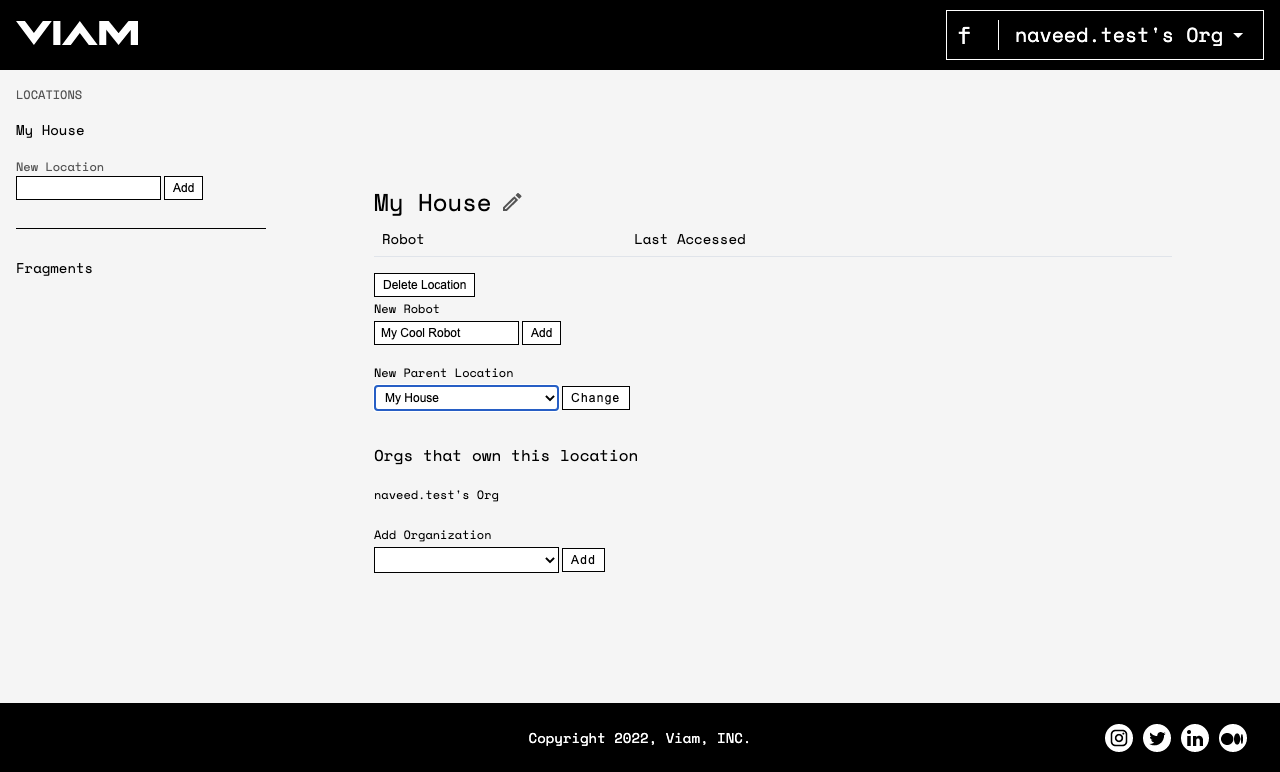
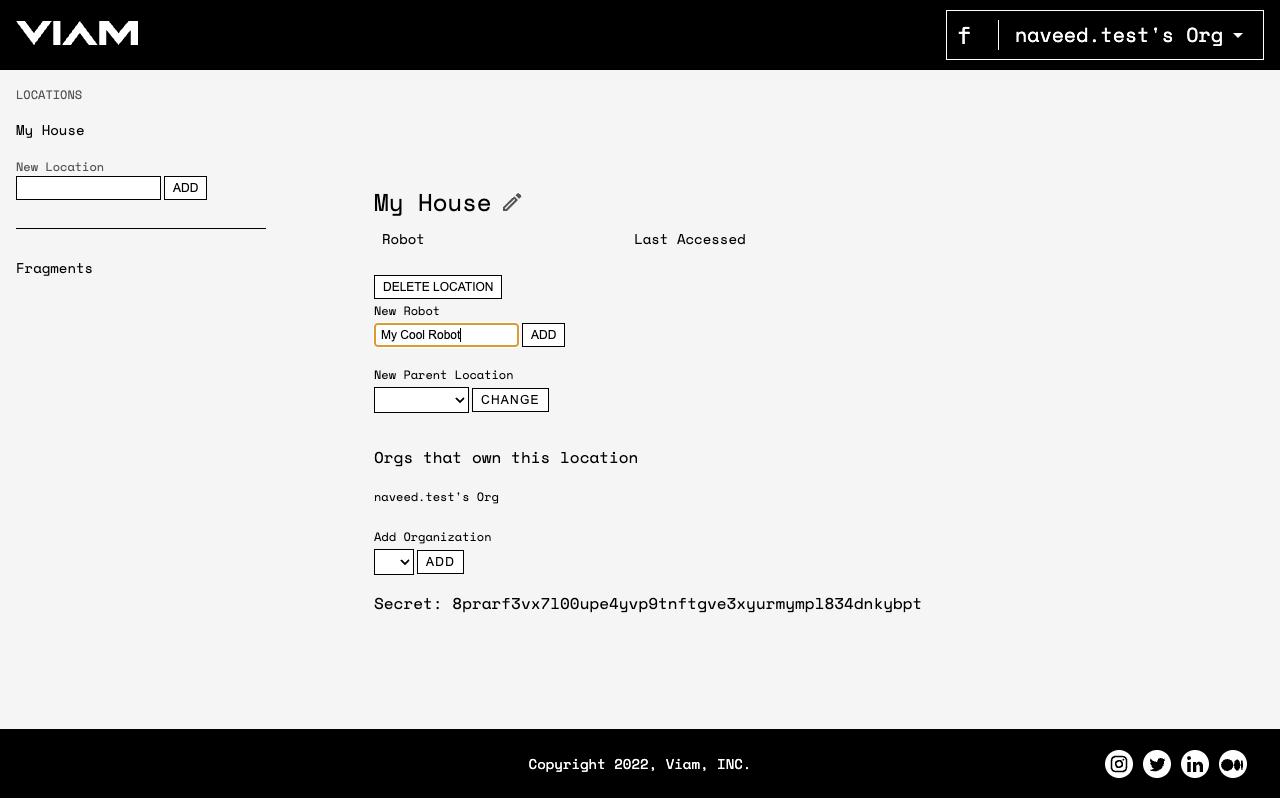
alexis and khari improvements. updated some screenshots

diff --git a/docs/tutorials/yahboom-rover.md b/docs/tutorials/yahboom-rover.md
@@ -82,8 +82,8 @@ Now let’s add the base:
     "board": "local",
     "frontLeft": "left",
     "frontRight": "right",
-    "wheelCircumferenceMillis": 160,
-    "widthMillis": 20
+    "wheelCircumferenceMm": 160,
+    "widthMm": 20
   },
   "depends_on": [
     "local",
@@ -92,21 +92,21 @@ Now let’s add the base:
   ]
 }
 ```
-The `base` component is used to describe the physical structure onto which components are mounted. The `four-wheel` model of the `base` component expects attributes to describe which components are each of its wheels. Since the yahboom rover only has two driving `motor` controllers (one for each side instead of one for each wheel), we list each `motor` twice (once as front and once as back). When you save the config and switch to the control view once more, you should have new buttons for the `base` functionality including `BaseSpin`, `BaseArcMove`, and similar. Try playing around with these and getting a sense for what they do.
+The `base` component is used to describe the physical structure onto which components are mounted. The `four-wheel` model of the `base` component expects attributes to describe which components are each of its wheels. Since the yahboom rover only has two driving `motor` controllers (one for each side instead of one for each wheel), we list each `motor` twice (once as front and once as back). When you save the config and switch to the control view once more, you should have new buttons for the `base` functionality including `SpinCW`, `ArcForward`, and similar. Try playing around with these and getting a sense for what they do.
 
 Awesome! Now we have a rover which we can drive via a webUI. But wouldn’t it be more fun to drive it around like an RC car? Let’s try attaching a bluetooth controller and using that to control the rover. If you’ve ever connected a bluetooth device via the linux command line, great! If not, strap in, it’s a bit of a pain. 
 
-Make sure the 8bitdo controller mode switch is set to S, hold down Start for a few seconds, and when the LED rotates press the pair button for 3 seconds. 
+Make sure the 8bitdo controller mode switch is set to S, hold down Start for a few seconds, and when the LED rotates press the pair button for 3 seconds. For more information about the controller buttons and bluetooth modes, consult the manual included with the controller.
 
-Run `bluetoothctl scan on` to list all Bluetooth devices within reach of the Raspberry Pi. The 8bitdo controller will have a MAC address that begins E4:17:D8.
+Run `sudo bluetoothctl scan on` to list all Bluetooth devices within reach of the Raspberry Pi. The 8bitdo controller will have a MAC address that begins E4:17:D8.
 
-Once you find it in the listings, pair with the controller: `bluetoothctl pair <8bitdo-mac-address>`
+Once you find it in the listings, pair with the controller: `sudo bluetoothctl pair <8bitdo-mac-address>`
 
-Then connect the controller: `bluetoothctl connect <8bitdo-mac-address>`
+Then connect the controller: `sudo bluetoothctl connect <8bitdo-mac-address>`
 
-Lastly trust the controller, which make reconnecting easier in the future: `bluetoothctl trust <8bitdo-mac-address>`
+Lastly trust the controller, which make reconnecting easier in the future: `sudo bluetoothctl trust <8bitdo-mac-address>`
 
-To confirm the connection, you can list connected devices with: `bluetoothctl devices | cut -f2 -d' ' | while read uuid; do bluetoothctl info $uuid; done|grep -e "Device\|Connected\|Name"`
+To confirm the connection, you can list connected devices with: `sudo bluetoothctl devices | cut -f2 -d' ' | while read uuid; do sudo bluetoothctl info $uuid; done|grep -e "Device\|Connected\|Name"`
 
 If you'd a stronger understanding of `bluetoothctl` and managing bluetooth devices in linux, we recommend [this guide](https://www.makeuseof.com/manage-bluetooth-linux-with-bluetoothctl/)
 
@@ -134,12 +134,13 @@ This config adds the controller to the robot, but doesn’t wire it up to any fu
 ```
 Save the config and visit the control UI. At this point moving the left analogue stick should result in movement of the rover!
 
-But wait! This rover has a `camera` on it. Let's see if we can get that going as well! Here's the config for a simple usb webcam like we have here:
+But wait! This rover has a `camera` on it. Let's see if we can get that going as well! Here's the component config for a simple usb webcam like we have here:
 ```json
 {
   "name": "wc",
   "type": "camera",
-  "model": "webcam"
+  "model": "webcam",
+  "path": "/dev/video0"
 }
 ```
 

diff --git a/docs/tutorials/install-on-pi.md b/docs/tutorials/install-on-pi.md
@@ -32,7 +32,7 @@ Select and click on the most recent folder listed:
 
 Select and download the `.zip` file. Unzip the `.zip` file by double clicking it in your Downloads folder. This should result in a `.img` file.
 
-We’ll be using the Raspberry Pi Imager to flash the microSD card. If you do not already have the Raspberry Pi Imager, you can download it following the install instructions here. After successful installation, connect your microSD card to your computer and launch the Raspberry Pi Imager. You should be greeted with a window that looks like:  
+We’ll be using the Raspberry Pi Imager to flash the microSD card. If you do not already have the Raspberry Pi Imager, you can download it following the install instructions [here](https://www.raspberrypi.com/software/). After successful installation, connect your microSD card to your computer and launch the Raspberry Pi Imager. You should be greeted with a window that looks like:  
 ![imager-launch-screen](img/imager-launch-screen.png)
 
 Select `CHOOSE OS`. Then, scroll to the bottom and select `Use custom`:
@@ -97,12 +97,11 @@ Select your location and use the form on the right to create a new Robot:
 Navigate to your new robot, which should show an empty conifg like below:
 ![view-robot](img/view-robot.png)
 
-Click client config at the bottom, this should yield json similar to below:
-![view-client-config](img/view-client-config.png)
+Click `COPY RDK CONFIG` at the bottom, this should fill your clipboard with the json config needed for your pi talk to app.viam.com as this robot.
 
 Copy this json data into the /etc/viam.json file on your pi. Back in the terminal window connected to your pi, run the following: 
 ```bash
-$ echo ‘<paste copied config into these quotes>’ | sudo tee /etc/viam.json
+$ echo ‘<paste copied config into these quotes, but dont forget the quotes themselves>’ | sudo tee /etc/viam.json
 ```
 
 Then restart the viam-server:
